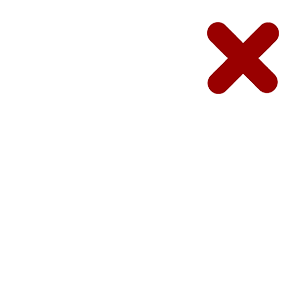
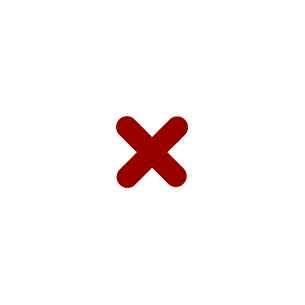
finish delete functionality

Changed region(s): [[0.3836, 0.3836, 0.6197, 0.6197], [0.6787, 0.059, 0.9148, 0.3246]]

diff --git a/app_client/app.min.js b/app_client/app.min.js
@@ -52,10 +52,10 @@
     .module('nerveCenter')
     .controller('dashboardCtrl', dashboardCtrl);
 
-  function dashboardCtrl($scope, $http, $location, $uibModal, $log, $document, meanData, auth) {
+  function dashboardCtrl($scope, $http, $location, $uibModal, $log, $document, $filter, meanData, auth) {
     var $dash = this;
 
-    $scope.deleteEnabled = false;
+    $scope.deleteEnabled = true;
 
     $dash.widgets = {};
     $scope.$watch('widgets', function(widgets){
@@ -125,10 +125,9 @@
       $scope.saveWidgets();
     }
 
-    
-    $scope.deleteWidget = function() {
-
-      $scope.widgets.push(newWidget);
+    $scope.deleteWidget = function(widget) {
+      var index = $scope.widgets.indexOf(widget);
+      $scope.widgets.splice(index, 1);
       $scope.saveWidgets();
     }
 
@@ -420,6 +419,27 @@
 })();
 
 
+(function() {
+
+  angular
+    .module('nerveCenter')
+    .controller('utilityModalCtrl', utilityModalCtrl);
+  
+  function utilityModalCtrl($uibModalInstance, items) {
+    var $dash = this;
+
+    $dash.ok = function() {
+      $uibModalInstance.close($dash.selected.item);
+    };
+
+    $dash.cancel = function() {
+      $uibModalInstance.dismiss('cancel');
+    };
+  };
+
+})();
+
+
 var allIcons = [
   { icon:"img/BNK.png" },
   { icon:"img/CNN.png" },
@@ -544,27 +564,6 @@ var gridsterModalOptions = {
   }
 
 })();
-
-(function() {
-
-  angular
-    .module('nerveCenter')
-    .controller('utilityModalCtrl', utilityModalCtrl);
-  
-  function utilityModalCtrl($uibModalInstance, items) {
-    var $dash = this;
-
-    $dash.ok = function() {
-      $uibModalInstance.close($dash.selected.item);
-    };
-
-    $dash.cancel = function() {
-      $uibModalInstance.dismiss('cancel');
-    };
-  };
-
-})();
-
 
 (function () {
 

diff --git a/app_client/dashboard/dashboard.view.html b/app_client/dashboard/dashboard.view.html
@@ -16,15 +16,13 @@
     <li gridster-item="item" ng-repeat="widget in widgets">
       <ng-click ng-click="logIt(widget.url);"> 
         <img id="png1" src={{widget.icon}} style="width:100%;height:100%;">
-        <img ng-show="deleteEnabled" id="png2" src=img/X_Delete.png style="width:100%;height:100%;">/
-        <!-- <img id="png1" src="http://upload.wikimedia.org/wikipedia/commons/7/7a/Basketball.png" /> -->
-        <!-- <img id="png2" src="http://upload.wikimedia.org/wikipedia/commons/5/5c/Torchlight_help.png" /> -->
+        <img ng-show="deleteEnabled" ng-click="deleteWidget(widget)" id="png2" src=img/X_Delete.png style="width:100%;height:100%;">/
       </ng-click>
     </li>
   </ul>
 </div>
 
-<scriid="png1"pt type="text/ng-template" id="mainModal.html">
+<script="png1"pt type="text/ng-template" id="mainModal.html">
 <div class="modal-header" style="background-color:#231f20;color:white;display:flex;flex-direction:row;">
       <div style="width:25%;text-align:center;">
         Rearrange 
@@ -62,7 +60,6 @@
     </form>
   </div>
 </script>
-
 
 <script type="text/ng-template" id="loginModal.html">
 <div class="modal-header" style="background-color:#231f20;color:white;text-align:right;">

diff --git a/app_client/profile/profile.view.html b/app_client/profile/profile.view.html
@@ -1,0 +1,27 @@
+<navigation></navigation>
+
+<div class="container">
+  <div class="row">
+     <div class="col-md-6">
+
+      <h1 class="form-signin-heading">Your profile</h1>
+
+      <form  class="form-horizontal">
+        <div class="form-group">
+          <label class="col-sm-3 control-label">Full name</label>
+          <p class="form-control-static">{{ vm.user.name }}</p>
+        </div>
+        <div class="form-group">
+          <label class="col-sm-3 control-label">Email</label>
+          <p class="form-control-static">{{ vm.user.email }}</p>
+        </div>
+        <div class="form-group">
+          <label class="col-sm-3 control-label">Widgets</label>
+          <p class="form-control-static">{{ vm.user.widgets }}</p>
+        </div>
+      </form>
+
+    </div>
+  </div>
+</div>
+

diff --git a/app_client/dashboard/dashboard.controller.js b/app_client/dashboard/dashboard.controller.js
@@ -4,10 +4,10 @@
     .module('nerveCenter')
     .controller('dashboardCtrl', dashboardCtrl);
 
-  function dashboardCtrl($scope, $http, $location, $uibModal, $log, $document, meanData, auth) {
+  function dashboardCtrl($scope, $http, $location, $uibModal, $log, $document, $filter, meanData, auth) {
     var $dash = this;
 
-    $scope.deleteEnabled = false;
+    $scope.deleteEnabled = true;
 
     $dash.widgets = {};
     $scope.$watch('widgets', function(widgets){
@@ -77,10 +77,9 @@
       $scope.saveWidgets();
     }
 
-    
-    $scope.deleteWidget = function() {
-
-      $scope.widgets.push(newWidget);
+    $scope.deleteWidget = function(widget) {
+      var index = $scope.widgets.indexOf(widget);
+      $scope.widgets.splice(index, 1);
       $scope.saveWidgets();
     }
 

diff --git a/app_client/profile/profile.controller.js b/app_client/profile/profile.controller.js
@@ -1,0 +1,23 @@
+(function() {
+
+  angular
+    .module('nerveCenter')
+    .controller('profileCtrl', profileCtrl);
+
+  profileCtrl.$inject = ['$location', 'meanData'];
+  function profileCtrl($location, meanData) {
+    var vm = this;
+
+    vm.user = {};
+
+    meanData.getProfile()
+      .success(function(data) {
+        vm.user = data;
+      })
+      .error(function (e) {
+        console.log(e);
+      });
+  }
+
+})();
+
